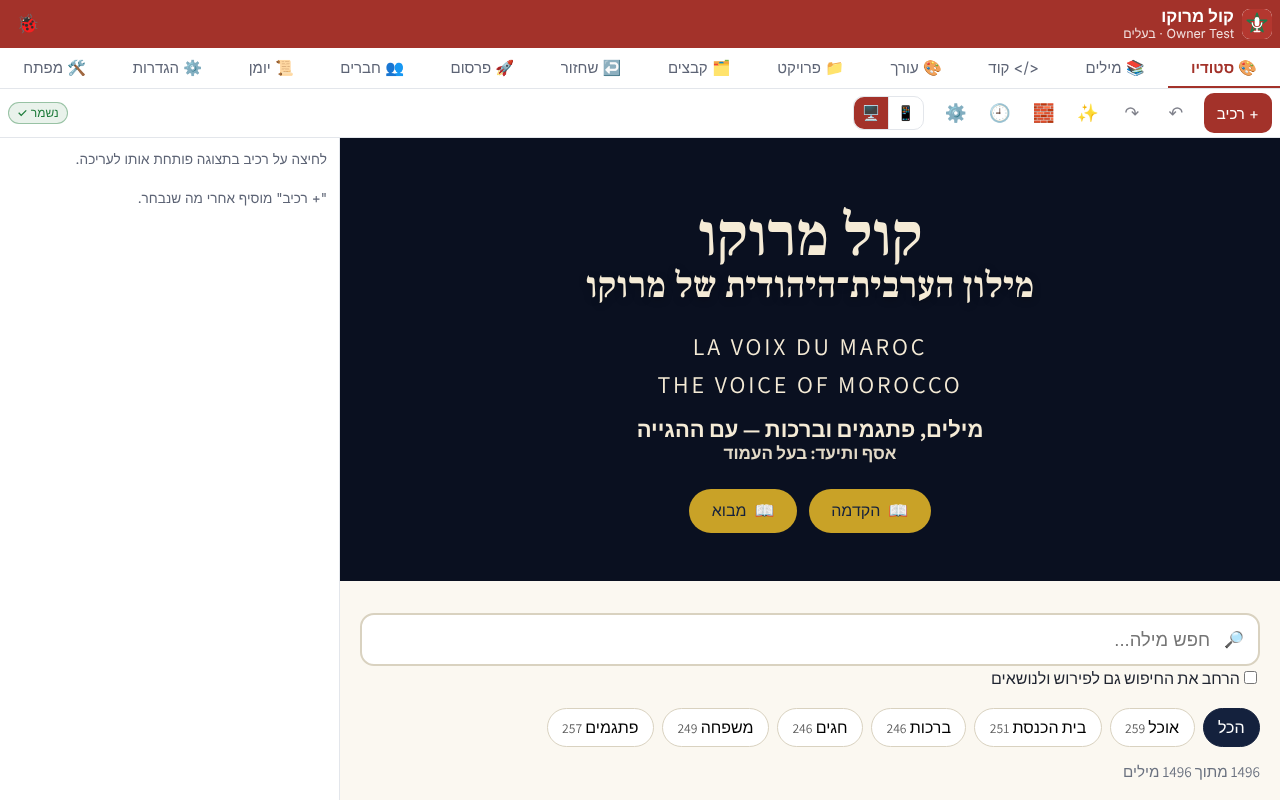
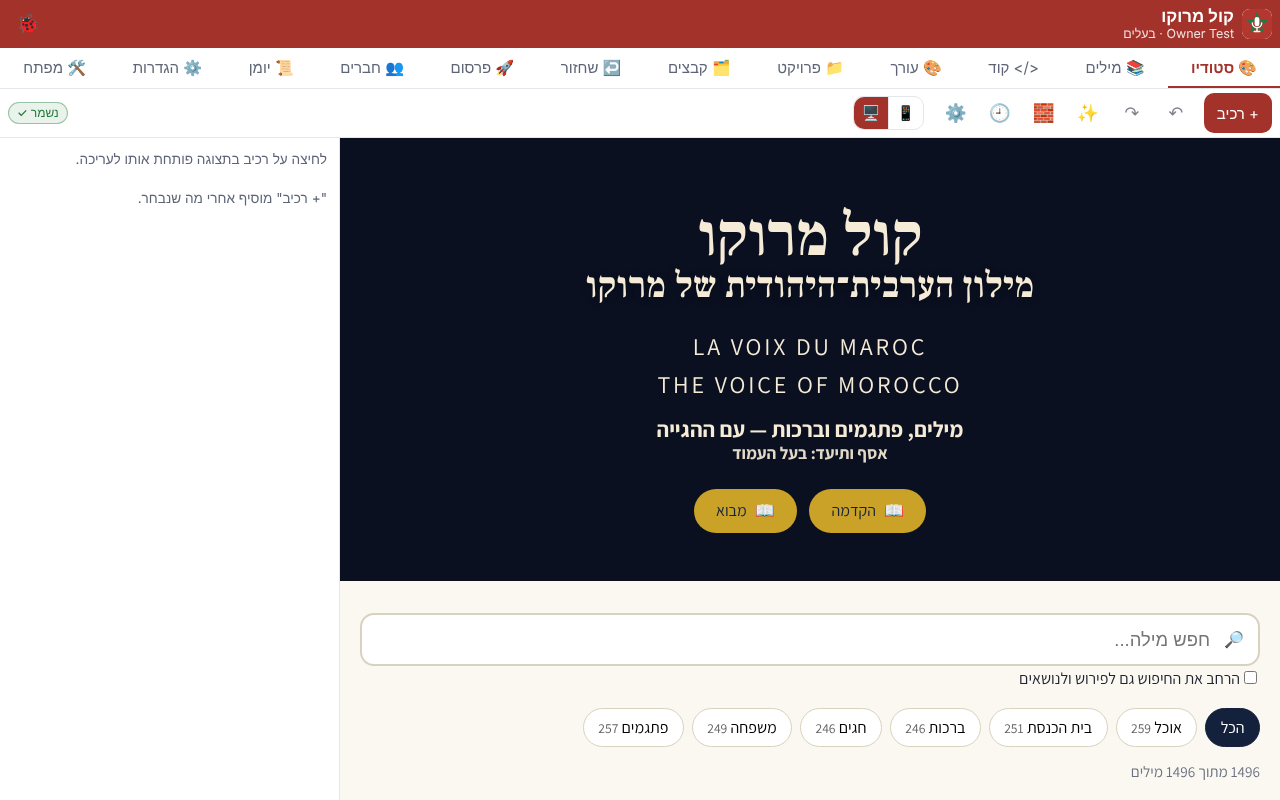
קול מרוקו · L1b: גם העמוד המפורסם על כל הרוחב — התיקון במקור (page.php) (#1475)
פלט הבנייה (build_version) התכווץ כמו הסטודיו: המילון 778px מתוך 1920 ומתוך 1280
(ב-390 תקין — השורה הופכת לעמודה). הכלל עבר ל-lib/page.php:
.kol-row>.kol-contents>*{flex:1 1 auto;min-width:0}, והכפילות ב-studio.js הוסרה.
העורך החדש (editor.php) אינו משתמש ב-page_render — לא מושפע.
l1.cjs מורחבת לפלט הבנייה (l1-build.php), צילומים ב-dev/l1/build-*.png.

Claude-Session: https://claude.ai/code/session_018g4NYEMSxGEvLdmXYaLJ7k

diff --git a/kol-maroko/assets/js/studio.js b/kol-maroko/assets/js/studio.js
@@ -73,11 +73,9 @@ const Studio = (() => {
   function fixSel() { if (S.sel && !find(S.sel)) S.sel = null; }
 
   // ── תצוגה ───────────────────────────────────────────────
-  // .kol-row>.kol-contents>*: עמודה מיובאת (display:contents) הופכת את הרכיב לפריט flex של השורה, והוא מתכווץ לרוחב התוכן —
-  // במחשב רחב המילון תפס ~717 מתוך 1580 ונשאר ריק ענק. כאן הוא ממלא את השורה (L1)
   const FRAME = `<!doctype html><html lang="he" dir="rtl"><head><meta charset="utf-8"><meta name="viewport" content="width=device-width,initial-scale=1">
 <style id="base">html,body{margin:0}body{font-family:system-ui,"Segoe UI",Arial,sans-serif;color:#1d1d1f;background:#fff}
-[data-kid]{cursor:pointer}.kol-row>.kol-contents>*{flex:1 1 0;min-width:0}.kol-col:empty{min-height:64px;outline:1px dashed #c8c8c8;outline-offset:-4px}
+[data-kid]{cursor:pointer}.kol-col:empty{min-height:64px;outline:1px dashed #c8c8c8;outline-offset:-4px}
 .kol-sel{outline:2px solid #2d7ff9!important;outline-offset:2px}.kol-sec.kol-sel{outline-offset:-2px}
 .kol-empty{padding:48px 16px;text-align:center;color:#888}iframe.kol-code{pointer-events:none}</style><style id="page"></style></head>
 <body><div id="root"></div><script>

diff --git a/kol-maroko/tests/browser/l1-build.php b/kol-maroko/tests/browser/l1-build.php
@@ -1,0 +1,15 @@
+<?php
+/**
+ * L1b — פלט הבנייה של הפרסום (build_version) לעמוד HTML עצמאי:   php l1-build.php <תיקיית הנתונים> <קובץ הפלט>
+ * ה-HTML וה-CSS כמו שהם נשלחים לאתר, עם ה-CSS של ערכת הנושא (preview_css). רק אחרי f3-seed.php על אותה תיקייה.
+ */
+declare(strict_types=1);
+if (PHP_SAPI !== 'cli' || $argc < 3 || !is_dir($argv[1])) exit(1);
+define('KOL_DATA_DIR', $argv[1]);
+$root = dirname(__DIR__, 2);
+if (realpath(KOL_DATA_DIR) === realpath($root . '/data')) exit("לא על data/\n");
+foreach (['members', 'import', 'ai', 'agent', 'dev', 'preview', 'migrate', 'publish'] as $lib) require_once "$root/lib/$lib.php";
+$b = build_version(page_normalize(json_decode((string)draft_row()['json'], true)));
+file_put_contents($argv[2], "<!doctype html>\n<html lang=\"he\" dir=\"rtl\"><head><meta charset=\"utf-8\"><meta name=\"viewport\" content=\"width=device-width, initial-scale=1\"><title>build</title>\n"
+    . "<style>body{margin:0}\n" . setting('preview_css', '') . "\n" . $b['css'] . "</style></head><body>\n" . $b['html'] . "\n</body></html>\n");
+echo strlen($b['html']), "\n";

diff --git a/kol-maroko/lib/page.php b/kol-maroko/lib/page.php
@@ -321,7 +321,9 @@ function page_render(array $page, bool $editor = false, ?callable $url = null): 
     $css[] = "@media (max-width:767px){{$P} .kol-row{flex-direction:column;gap:16px}{$P} .kol-col{flex-basis:auto!important}{$P} .kol-hm{display:none!important}}";
     $css[] = "@media (min-width:768px){{$P} .kol-hd{display:none!important}}";
 
-    $css[] = "$P .kol-legacy{margin:0}$P .kol-contents{display:contents}$P .kol-raw>:first-child{margin-top:0}";
+    // עמודה מיובאת היא display:contents — הרכיבים שלה הם פריטי flex של השורה, ובלי flex-grow מתכווצים לרוחב התוכן
+    // (המילון: 717–778px מתוך 1920). כאן הם ממלאים את השורה — בסטודיו ובפרסום (L1, L1b)
+    $css[] = "$P .kol-legacy{margin:0}$P .kol-contents{display:contents}$P .kol-row>.kol-contents>*{flex:1 1 auto;min-width:0}$P .kol-raw>:first-child{margin-top:0}";
 
     $kid = fn(string $id) => $editor ? ' data-kid="' . $id . '"' : '';
     $html = '<div class="kol-page">' . legacy_open($st['legacy'] ?? []);
